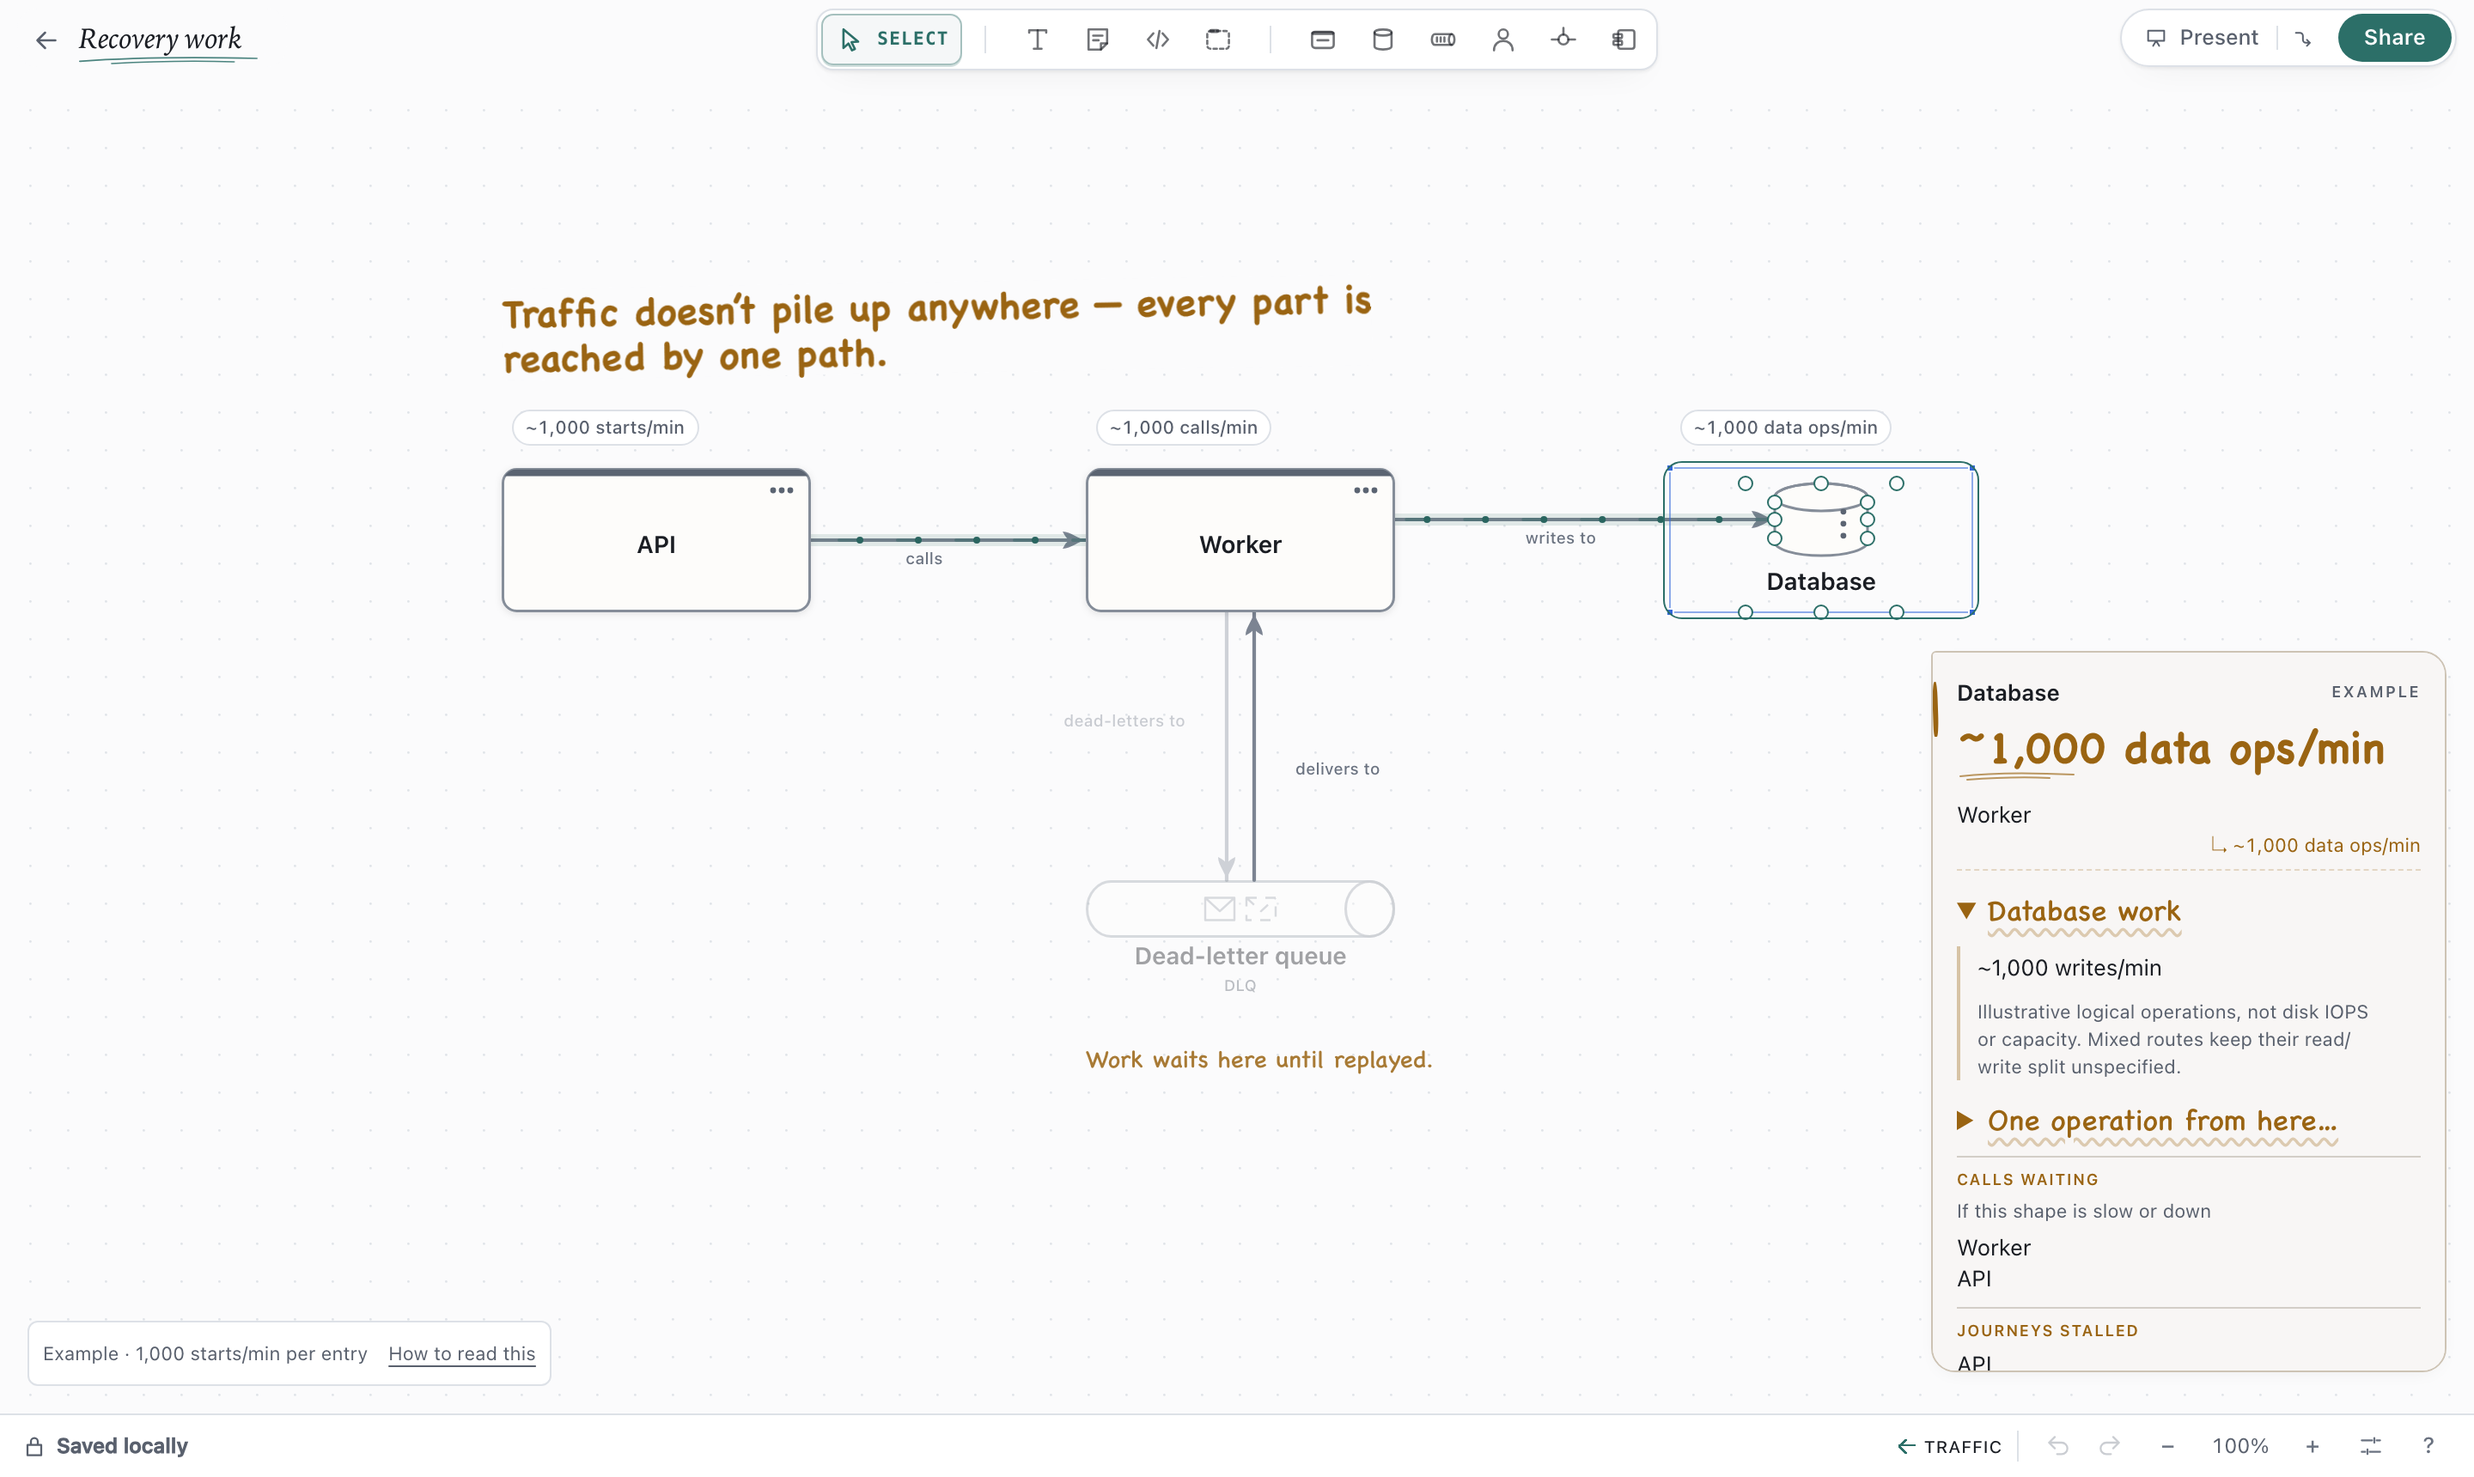
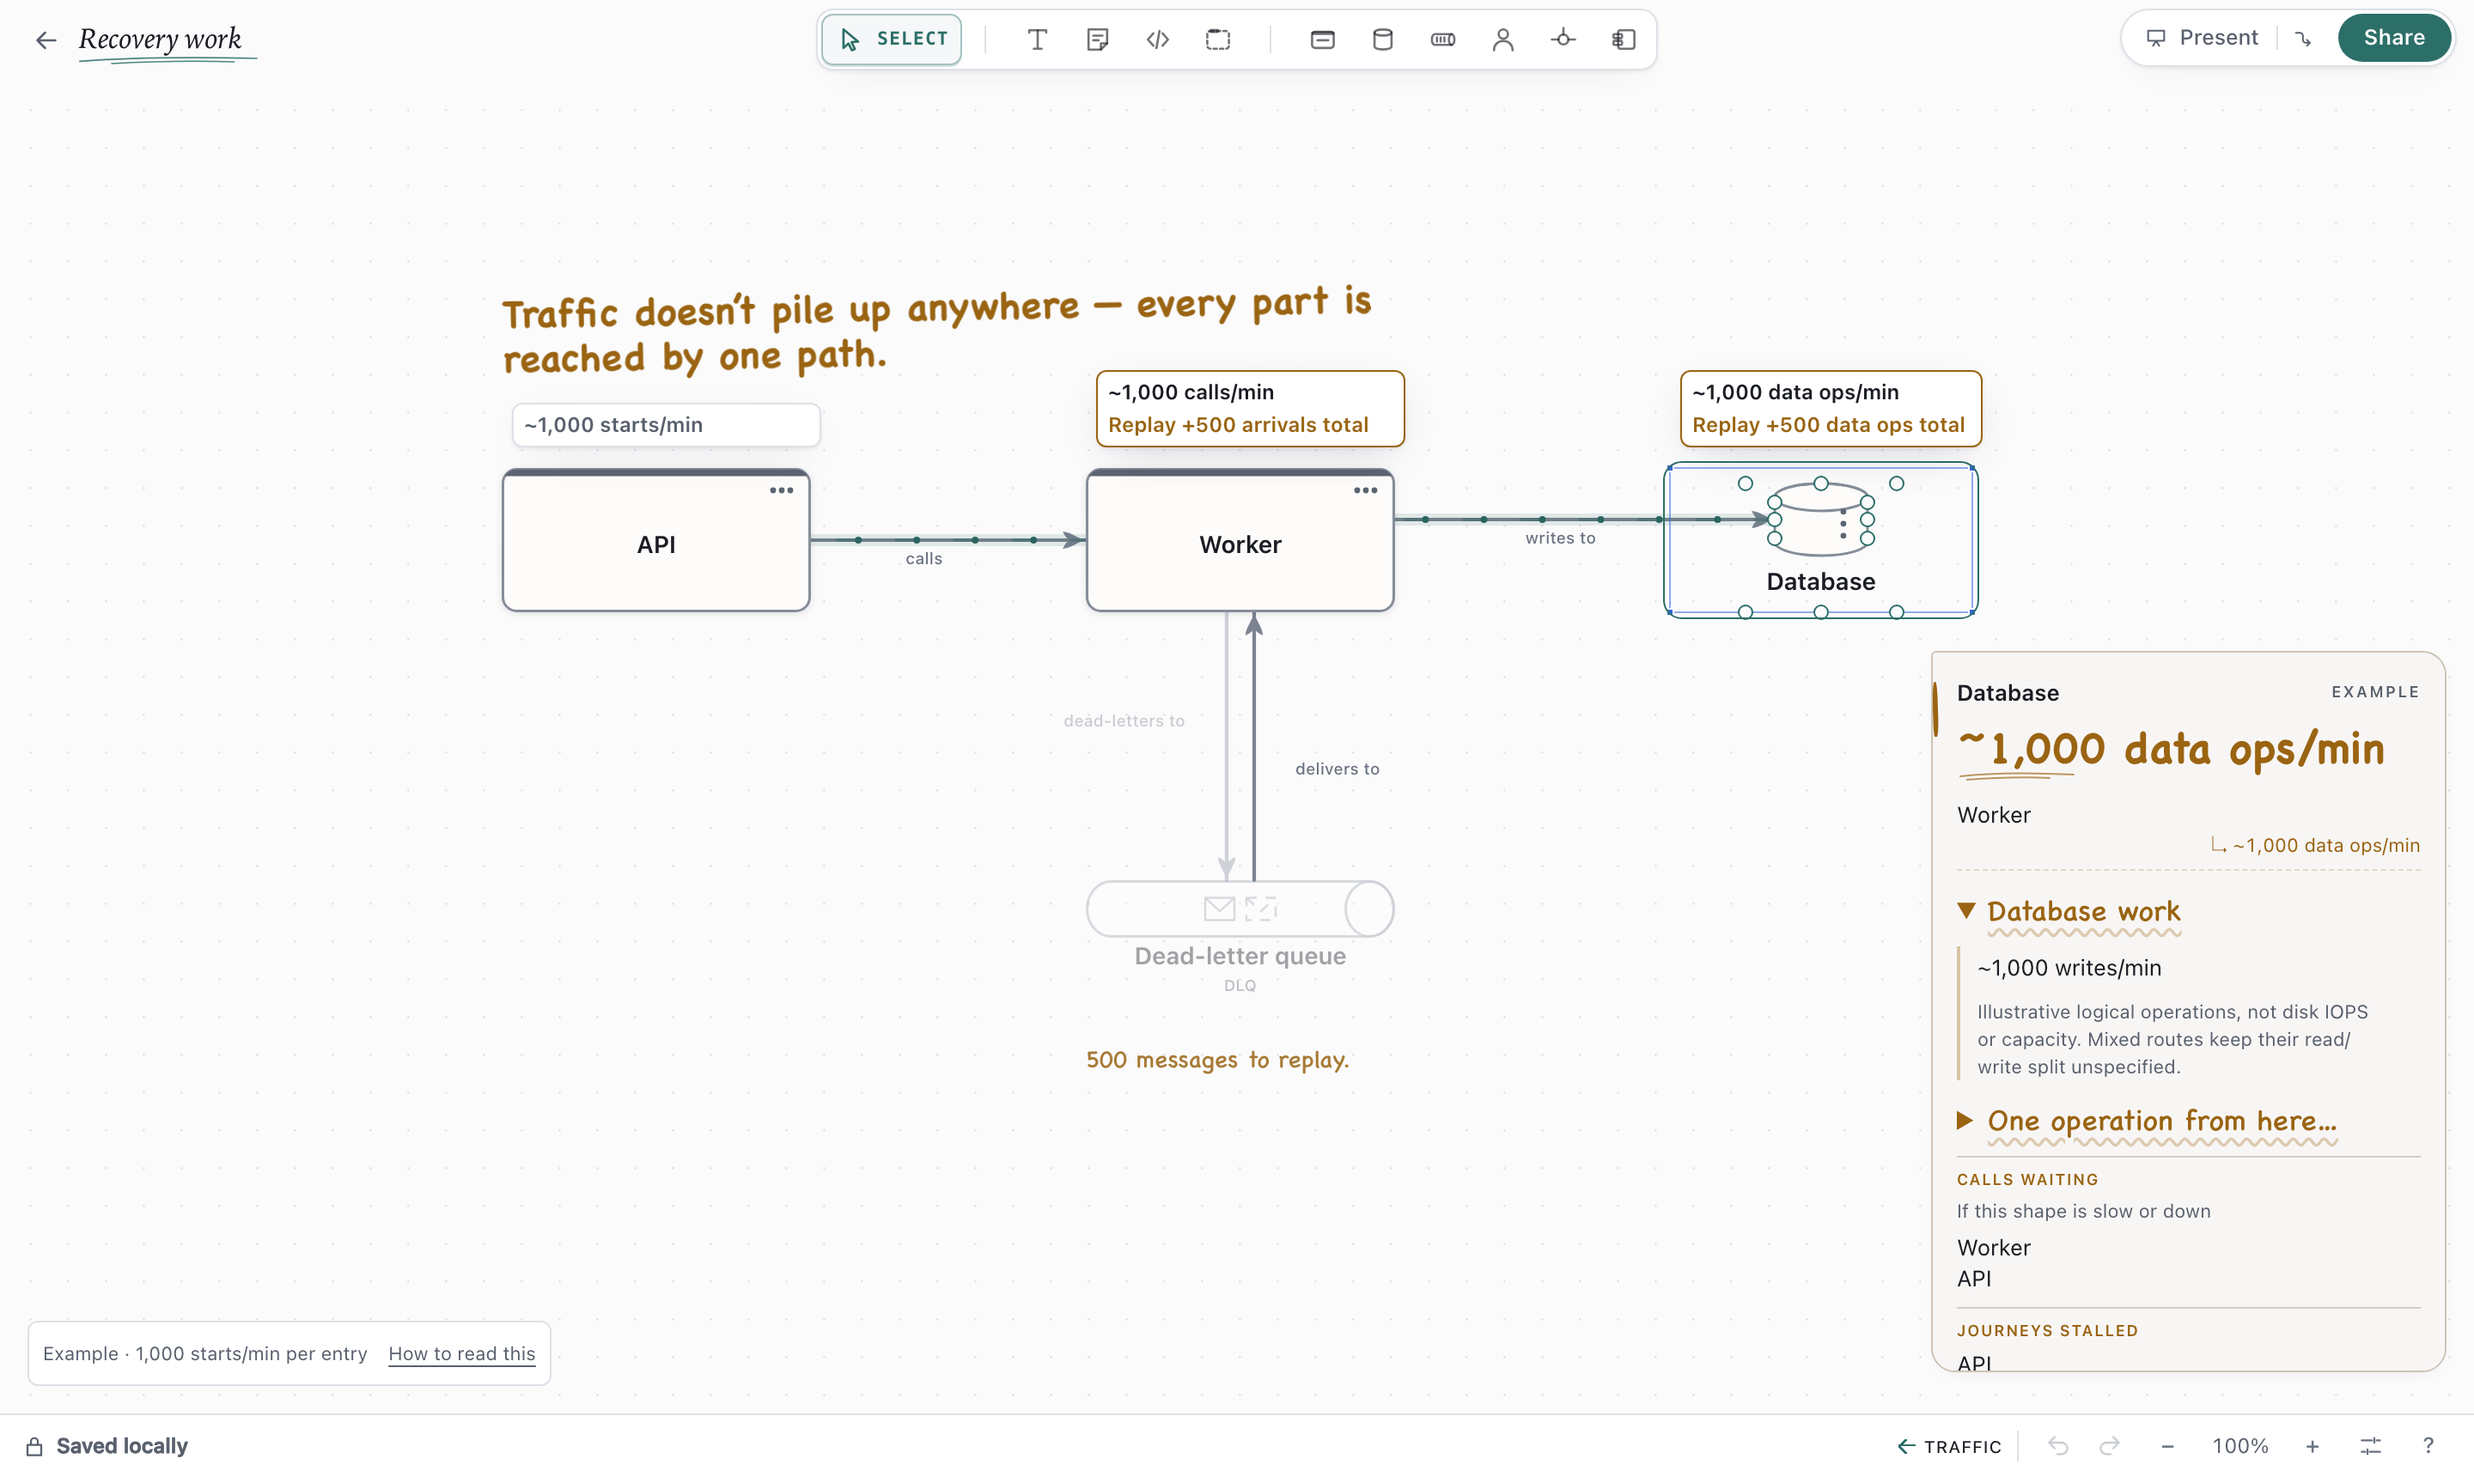
fix(traffic): retain replay scenario across shape selection

diff --git a/src/canvas/TrafficSketches.tsx b/src/canvas/TrafficSketches.tsx
@@ -89,7 +89,9 @@ export function TrafficSketches() {
     if (!moving) setNodes(live);
   }, [live, moving]);
   const [open, setOpen] = useState<string | null>(null);
-  const [replay, setReplay] = useState<{ plan: NonNullable<ReturnType<typeof recoveryPlan>>; count: number | null } | null>(null);
+  const [replay, setReplay] = useState<{ id: string; analysis: TrafficAnalysis; plan: NonNullable<ReturnType<typeof recoveryPlan>>; count: number | null } | null>(null);
+  // Selection only opens a reading. Keep the scenario until Traffic closes or its graph changes.
+  const activeReplay = replay?.analysis === analysis ? replay : null;
   const root = useRef<HTMLDivElement>(null);
 
 
@@ -127,16 +129,16 @@ export function TrafficSketches() {
     if (!analysis || !nodes) return [];
     return nodes.filter((node) => node.deliveryRole === 'dead-letter').map((node) => {
       const hasRoute = analysis.interactions.some((item) => item.from === node.id && item.workload);
-      const count = node.id === selectedId && replay?.plan === content?.recovery ? replay?.count : null;
+      const count = node.id === activeReplay?.id ? activeReplay.count : null;
       const valid = count !== null && count !== undefined && Number.isSafeInteger(count) && count >= 0 && count <= MAX_REPLAY_MESSAGES;
       const label = !hasRoute ? 'No replay path drawn.' : !valid ? 'Work waits here until replayed.'
         : count === 0 ? 'Nothing to replay in this example.' : `${count.toLocaleString('en-US')} ${count === 1 ? 'message' : 'messages'} to replay.`;
       return { node, label, text: layoutText(label, { font: { stack: 'hand', size: 14, weight: 400 }, maxWidth: 260, lineHeight: 19 }) };
     });
-  }, [analysis, nodes, selectedId, replay, content]);
+  }, [analysis, nodes, activeReplay]);
   const replayBadges = useMemo(() => {
-    if (!analysis || !nodes || !replay || replay.count === null || replay.plan !== content?.recovery) return [];
-    const counts = recoveryArrivals(analysis, replay.plan, replay.count);
+    if (!analysis || !nodes || !activeReplay || activeReplay.count === null) return [];
+    const counts = recoveryArrivals(analysis, activeReplay.plan, activeReplay.count);
     if (counts.size === 0) return [];
     return nodes.flatMap((node) => {
       const count = counts.get(node.id);
@@ -146,7 +148,7 @@ export function TrafficSketches() {
       const label = !count ? baseline! : `Replay +${amount} ${analysis.nodes.get(node.id)?.role === 'data' ? 'data ops' : 'arrivals'} total`;
       return [{ node, label, baseline: count ? baseline : undefined, recovery: !!count, text: layoutText(label, { font: { stack: 'sans', size: 12, weight: 600 }, maxWidth: node.width - 12, lineHeight: 16 }) }];
     });
-  }, [analysis, nodes, replay, content, scenario]);
+  }, [analysis, nodes, activeReplay, scenario]);
   const callout = useMemo(
     () => {
       if (!content) return null;
@@ -359,7 +361,7 @@ export function TrafficSketches() {
                 </div>
               </details>
             )}
-            {callout.recovery && <TrafficRecovery key={`${selectedId}:${trafficScope}`} analysis={analysis} nodes={nodes} plan={callout.recovery} onExplore={(count) => setReplay({ plan: callout.recovery!, count })} width={callout.width - 46} />}
+            {callout.recovery && <TrafficRecovery key={`${selectedId}:${trafficScope}`} analysis={analysis} nodes={nodes} plan={callout.recovery} initialCount={activeReplay?.id === selectedId ? activeReplay.count ?? 1 : 1} onExplore={(count) => setReplay({ id: selectedId!, analysis, plan: callout.recovery!, count })} width={callout.width - 46} />}
             {callout.sections.map((section) => (
               <section key={section.label} className="dc-traffic-callout-section" data-tone={section.tone} aria-label={section.label}>
                 <h3>{section.label}</h3>

diff --git a/e2e/traffic.spec.ts b/e2e/traffic.spec.ts
@@ -392,7 +392,22 @@ test('replay batches show total recovery work without editing the diagram or bas
   await page.screenshot({ path: '/tmp/traffic-recovery-preview.png' });
   await recovery.getByRole('button', { name: 'Worker', exact: true }).click();
   await expect(page.locator('.dc-traffic-callout')).toContainText('Worker');
+  await expect(page.locator('.dc-traffic-replay-badge')).toHaveCount(2);
+  await page.locator('.react-flow__node[data-id="db"] .dc-node').click();
+  await page.locator('.dc-traffic-database summary').click();
+  await expect(page.locator('.dc-traffic-replay-badge').filter({ hasText: 'data ops' })).toContainText('Replay +500 data ops total');
+  await expect(page.locator('.dc-traffic-dlq-note')).toHaveText('500 messages to replay.');
+  await page.locator('.react-flow__node[data-id="dlq"] .dc-node').click();
+  await page.locator('.dc-traffic-recovery summary').click();
+  await expect(page.getByRole('textbox', { name: 'Messages to replay' })).toHaveValue('500');
+  await page.getByRole('textbox', { name: 'Messages to replay' }).fill('0');
+  await page.locator('.react-flow__node[data-id="db"] .dc-node').click();
   await expect(page.locator('.dc-traffic-replay-badge')).toHaveCount(0);
+  await expect(page.locator('.dc-traffic-dlq-note')).toHaveText('Nothing to replay in this example.');
+  await page.locator('.dc-status-traffic').click();
+  await page.locator('.dc-status-traffic').click();
+  await expect(page.locator('.dc-traffic-dlq-note')).toHaveText('Work waits here until replayed.');
+  expect(await editorRevision(page)).toBe(revision);
 });
 
 for (const colorScheme of ['light', 'dark'] as const) {

diff --git a/src/canvas/TrafficRecovery.tsx b/src/canvas/TrafficRecovery.tsx
@@ -8,14 +8,15 @@ import type { TrafficAnalysis } from '../traffic';
 import { MAX_REPLAY_MESSAGES, recoveryWork, type recoveryPlan } from '../traffic/recovery';
 
 /** A deliberately local what-if: neither the pending count nor exploring recovery edits a file. */
-export function TrafficRecovery({ analysis, nodes, plan, width, onExplore }: {
+export function TrafficRecovery({ analysis, nodes, plan, width, onExplore, initialCount = 1 }: {
   analysis: TrafficAnalysis;
   nodes: readonly DraftNode[];
   plan: NonNullable<ReturnType<typeof recoveryPlan>>;
   width: number;
+  initialCount?: number;
   onExplore: (count: number | null) => void;
 }) {
-  const [pending, setPending] = useState('1');
+  const [pending, setPending] = useState(() => String(initialCount));
   const count = /^\d+$/.test(pending) ? Number(pending) : NaN;
   const result = useMemo(() => recoveryWork(analysis, plan, count), [analysis, plan, count]);
   const text = (value: string) => layoutText(value, {

diff --git a/docs/guides/traffic.md b/docs/guides/traffic.md
@@ -145,7 +145,8 @@ An idle DLQ does not start normal traffic. Recovery follows the routes you drew 
 dependencies also used by normal work. Without an outgoing replay route, it asks you to draw one.
 Compensation remains a range because the diagram cannot tell which earlier steps completed.
 Retries and new failures can add more work; loops have no finite total. The optional count is local,
-resets when you select another shape, and never edits the diagram. While exploring a replay,
+stays while you inspect other shapes, and never edits the diagram. Returning to the DLQ keeps
+the chosen count. Closing Traffic or changing the analyzed graph clears the example. While exploring a replay,
 affected shapes include **Replay +… total** in their top traffic chip, alongside the normal rate.
 The replay total updates with the count. Collapsing **Recovery work** hides its controls while
 keeping the chosen example visible on the diagram. A small note beside the DLQ describes the example.

diff --git a/CHANGELOG.md b/CHANGELOG.md
@@ -13,7 +13,7 @@ The retired VS Code extension has [its own changelog](https://github.com/acltabo
 #### Added
 
 - The editor footer keeps save status and canvas controls compact, without element counts or the
-  repeated privacy sentence. Collapsing Recovery work now keeps the chosen replay example visible.
+  repeated privacy sentence. Collapsing Recovery work or inspecting another shape keeps the chosen replay example visible.
 
 - A quiet note beside each DLQ describes its replay scenario. Zero messages clears the extra
   replay numbers without implying a live queue is empty.
